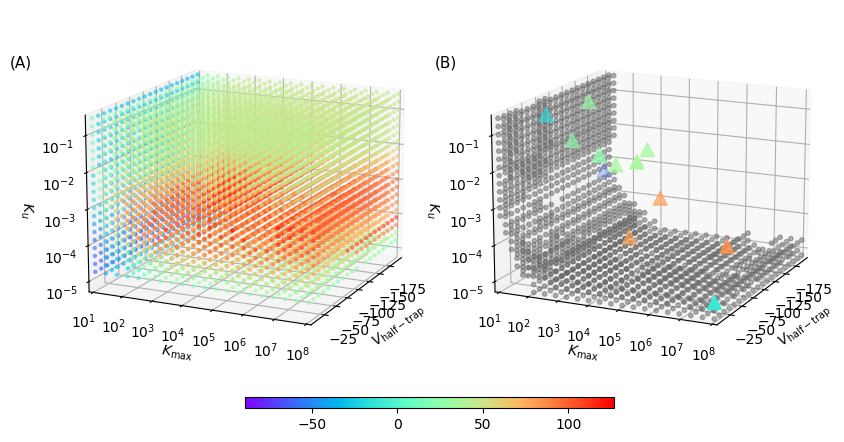
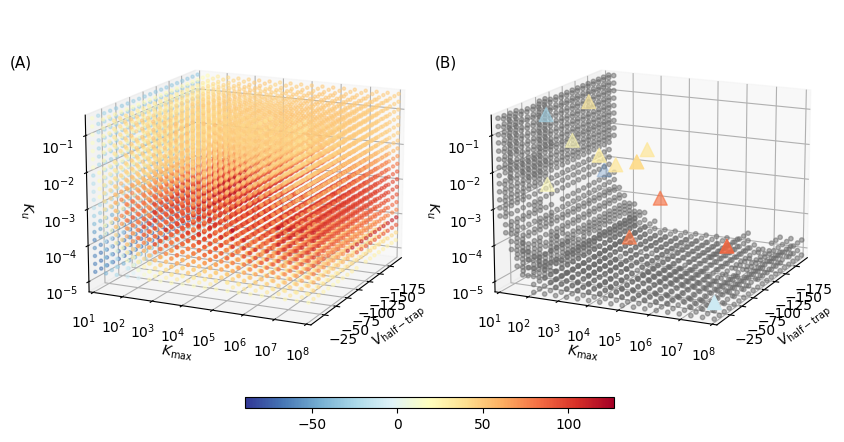
Replot supp mat figures with data using opt model

diff --git a/scripts/fig_script/supp_N_difference.py b/scripts/fig_script/supp_N_difference.py
@@ -8,12 +8,12 @@ import pandas as pd
 
 # Read APD90 differences for all synthetic drug
 data_dir = '../../simulation_data/'
-filename = 'SA_alldrugs.csv'
+filename = 'SA_alldrugs_opt.csv'
 drug_df = pd.read_csv(data_dir + filename,
                       header=[0, 1], index_col=[0],
                       skipinitialspace=True)
 drug_list = drug_df[('drug', 'drug')].values
-print(drug_list)
+drug_list = drug_list[:-1]
 
 # Define directories and variables
 data_dir = '../../simulation_data/supp_mat/APD90diff_N/'

diff --git a/scripts/fig_script/supp_APD_Vhalf.py b/scripts/fig_script/supp_APD_Vhalf.py
@@ -157,7 +157,6 @@ scale_map = matplotlib.cm.ScalarMappable(norm=cmap_norm, cmap=cmap)
 Vhalf_list = combined_df['param_values']['Vhalf'].values
 Vhalf_list = [Vhalf_list[i] for i in range(len(Vhalf_list)) if Vhalf_list[i]
               not in Vhalf_list[:i]]
-print(Vhalf_list)
 
 # Choose three Vhalf-trap values and extract data from the dataframe
 chosen_Vhalf_value = [-199.5, -105.543, -22.026]  #  -1.147]

diff --git a/scripts/fig_script/SA_3D.py b/scripts/fig_script/SA_3D.py
@@ -27,7 +27,7 @@ ComparisonController = modelling.ModelComparison(starting_param_df)
 
 # Read simulated data for synthetic drugs
 root_dir = '../../simulation_data/'
-filename = 'SA_alldrugs.csv'
+filename = 'SA_alldrugs_opt.csv'
 df = pd.read_csv(root_dir + filename, header=[0, 1], index_col=[0],
                  skipinitialspace=True)
 
